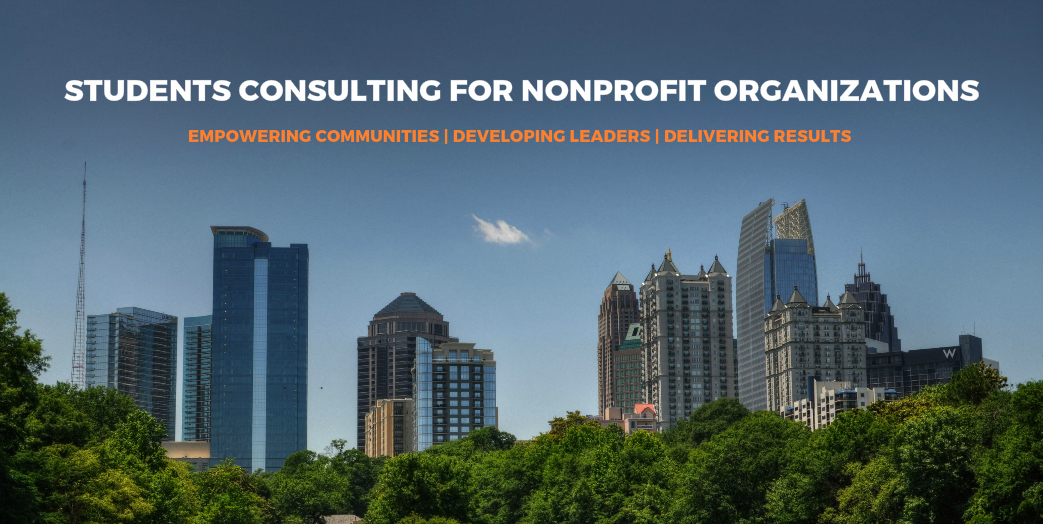
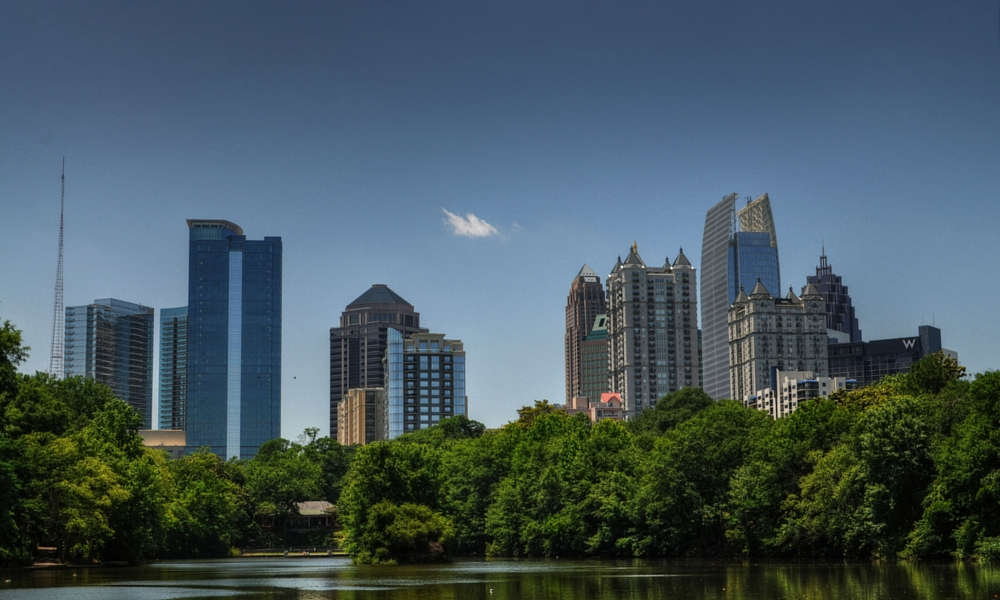
added other pages

diff --git a/contact.html b/contact.html
@@ -26,7 +26,7 @@
 
                 <div class = "collapse navbar-collapse navHeaderCollapse">
                     <ul class = "nav navbar-nav navbar-right">
-                        <li class = active><a href = "#">Home</a></li>
+                        <li><a href = "index.html">Home</a></li>
                         <li class = "dropdown">
                             <a href = "#" class = "dropdown-toggle" data-toggle="dropdown">About SCNO <b class = "caret"></b></a>
                             <ul class = "dropdown-menu">
@@ -36,7 +36,7 @@
                             </ul>
                         </li>
                         <li><a href = "apply.html">Apply</a></li>
-                        <li><a href = "contact.html">Contact Us</a></li>
+                        <li class = "active"><a href = "contact.html">Contact Us</a></li>
                         <li><a href = "https://www.facebook.com/GTSCNO/" target="_blank">
                             <img src = "pics/fblogo.jpg" width="35" height="35">
                         </a></li>
@@ -45,44 +45,11 @@
             </div>
         </div>
 
-        <div class="header">
-            <img src = "pics/header.jpg" align="middle">
-        </div>
-
-        <div class = "jumbotron" style = "background-image: url(pics/jumbo.jpg); background-size: 100% 100%;">
-        </div>
-
-        <div class = "container">
-            <div class = "row">
-                <div class = "col-md-4">
-                    <h3 class = "text-center text-uppercase text-primary">Nonprofits</h3>
-                    <img src = "pics/nonprofit.jpg" class = "center-block">
-                    <p class = "text-center">We consult for nonprofit organizations in Atlanta, solving different kinds of problems.</p>
-                    <a href = "#" class = "btn btn-default center-block">Get Consulted</a>
-                </div>
-                <div class = "col-md-4">
-                    <h3 class = "text-center text-uppercase text-primary">Students</h3>
-                    <img src = "pics/student.jpg" class = "center-block">
-                    <p class = "text-center">We have the most passionate students from a variety of majors to create innovative solutions.</p>
-                    <a href = "#" class = "btn btn-default center-block">Apply Now</a>
-                </div>
-                <div class = "col-md-4">
-                    <h3 class = "text-center text-uppercase text-primary">Results</h3>
-                    <img src = "pics/results.jpg" class = "center-block">
-                    <p class = "text-center">We give our clients a presentation and a detailed report of our recommendations.</p>
-                    <a href = "#" class = "btn btn-default center-block">Our Clients</a>
-                </div>
-            </div>
-            <br><br><br>
-        </div>
-
-        <div class = "navbar navbar-inverse">
-            <div class = "container">
-                <ul class = "nav navbar-nav navbar-left">
-                    <li><a href="#">Made by SCNO GT</a></li>
-                </ul>
-            </div>
-        </div>
+        <form action="https://formspree.io/scnogt@gmail.com" method="POST">
+            <input type="text" name="name">
+            <input type="email" name="_replyto">
+            <input type="submit" value="Send">
+        </form>
 
         <script src = "http://ajax.googleapis.com/ajax/libs/jquery/1.10.2/jquery.min.js">
         </script>

diff --git a/apply.html b/apply.html
@@ -26,7 +26,7 @@
 
                 <div class = "collapse navbar-collapse navHeaderCollapse">
                     <ul class = "nav navbar-nav navbar-right">
-                        <li class = active><a href = "#">Home</a></li>
+                        <li><a href = "index.html">Home</a></li>
                         <li class = "dropdown">
                             <a href = "#" class = "dropdown-toggle" data-toggle="dropdown">About SCNO <b class = "caret"></b></a>
                             <ul class = "dropdown-menu">
@@ -35,7 +35,7 @@
                                 <li><a href = "#">Our Clients</a></li>
                             </ul>
                         </li>
-                        <li><a href = "apply.html">Apply</a></li>
+                        <li class="active"><a href = "apply.html">Apply</a></li>
                         <li><a href = "contact.html">Contact Us</a></li>
                         <li><a href = "https://www.facebook.com/GTSCNO/" target="_blank">
                             <img src = "pics/fblogo.jpg" width="35" height="35">
@@ -45,35 +45,11 @@
             </div>
         </div>
 
-        <div class="header">
-            <img src = "pics/header.jpg" align="middle">
-        </div>
-
-        <div class = "jumbotron" style = "background-image: url(pics/jumbo.jpg); background-size: 100% 100%;">
-        </div>
-
-        <div class = "container">
-            <div class = "row">
-                <div class = "col-md-4">
-                    <h3 class = "text-center text-uppercase text-primary">Nonprofits</h3>
-                    <img src = "pics/nonprofit.jpg" class = "center-block">
-                    <p class = "text-center">We consult for nonprofit organizations in Atlanta, solving different kinds of problems.</p>
-                    <a href = "#" class = "btn btn-default center-block">Get Consulted</a>
-                </div>
-                <div class = "col-md-4">
-                    <h3 class = "text-center text-uppercase text-primary">Students</h3>
-                    <img src = "pics/student.jpg" class = "center-block">
-                    <p class = "text-center">We have the most passionate students from a variety of majors to create innovative solutions.</p>
-                    <a href = "#" class = "btn btn-default center-block">Apply Now</a>
-                </div>
-                <div class = "col-md-4">
-                    <h3 class = "text-center text-uppercase text-primary">Results</h3>
-                    <img src = "pics/results.jpg" class = "center-block">
-                    <p class = "text-center">We give our clients a presentation and a detailed report of our recommendations.</p>
-                    <a href = "#" class = "btn btn-default center-block">Our Clients</a>
-                </div>
-            </div>
-            <br><br><br>
+        <h1>How To Apply</h1><br>
+        <div class ="apply">
+            <img src ="pics/step1.jpg" style="margin-bottom: 10px">
+            <img src = "pics/step2.jpg" style="margin-bottom: 10px">
+            <img src = "pics/step3.jpg">
         </div>
 
         <div class = "navbar navbar-inverse">

diff --git a/css/bootstrap.css b/css/bootstrap.css
@@ -61,7 +61,7 @@ dfn {
 }
 h1 {
   margin: .67em 0;
-  font-size: 2em;
+  font-size: 4em;
 }
 mark {
   color: #000;
@@ -4968,15 +4968,13 @@ a.badge:focus {
   margin-left: 3px;
 }
 .jumbotron {
-  padding-top: 30px;
   padding-bottom: 30px;
   margin-bottom: 30px;
-  padding-left: 30px;
-  padding-right: 30px;
-  margin-left: 90px;
-  margin-right: 90px;
-  margin-top: 30px;
-  height: 60vh;
+  /*padding-left: 30px;
+  padding-right: 30px;*/
+  /*margin-left: 85px;
+  margin-right: 85px;*/
+  height: 95vh;
   background-repeat: no-repeat;
   /*color: inherit;*/
   background-color: #000;

diff --git a/Styles.css b/Styles.css
@@ -15,5 +15,21 @@ h6,
 .h4,
 .h5,
 .h6 {
-    font-family: Verdana, Geneva, sans-serif
+    font-family: Verdana, Geneva, sans-serif;
+    color: #001744;
+    text-align: center;
+}
+
+.header {
+    text-align: center;
+    margin-top: 15px;
+}
+
+.apply{
+    margin-bottom: 15px;
+}
+
+h1, .h1{
+    font-weight: bold;
+    text-decoration: underline;
 }

diff --git a/sendForm.php b/sendForm.php
@@ -1,0 +1,144 @@
+<?php
+    if (isset($_POST["submit"])) {
+        $name = $_POST['name'];
+        $email = $_POST['email'];
+        $message = $_POST['message'];
+        $human = intval($_POST['human']);
+        $from = 'Contact Form';
+        $to = 'scno@gmail.com';
+        $subject = 'Message from Contact Form';
+
+        $body = "From: $name\n E-Mail: $email\n Message:\n $message";
+
+        // Check if name has been entered
+        if (!$_POST['name']) {
+            $errName = 'Please enter your name';
+        }
+
+        // Check if email has been entered and is valid
+        if (!$_POST['email'] || !filter_var($_POST['email'], FILTER_VALIDATE_EMAIL)) {
+            $errEmail = 'Please enter a valid email address';
+        }
+
+        //Check if message has been entered
+        if (!$_POST['message']) {
+            $errMessage = 'Please enter your message';
+        }
+        //Check if simple anti-bot test is correct
+        if ($human !== 5) {
+            $errHuman = 'Your anti-spam is incorrect';
+        }
+
+// If there are no errors, send the email
+if (!$errName && !$errEmail && !$errMessage && !$errHuman) {
+    if (mail ($to, $subject, $body, $from)) {
+        $result='<div class="alert alert-success">Thank You! I will be in touch</div>';
+    } else {
+        $result='<div class="alert alert-danger">Sorry there was an error sending your message. Please try again later</div>';
+    }
+}
+    }
+?>
+
+<!DOCTYPE html>
+<html>
+
+    <head>
+        <title>SCNO</title>
+        <meta name="viewport" content="width=device-width, initial-scale=1.0">
+        <link href = "css/bootstrap.min.css" rel = "stylesheet">
+        <link href = "css/bootstrap.css" rel = "stylesheet">
+        <link href = "Styles.css" rel = "stylesheet">
+        <link href='https://fonts.googleapis.com/css?family=Montserrat' rel='stylesheet' type='text/css'>
+    </head>
+
+    <body>
+        <!-- <link href = "css/bootstrap.min.css" rel = "stylesheet">
+        <link href = "css/styles.css" rel = "stylesheet"> -->
+
+        <div class = "navbar navbar-default navbar-static-top">
+            <div class = "container">
+                <a href="#" class="pull-left"><img src="pics/navbarlogo3.png" width="250" height="70"></a>
+
+                <button class = "navbar-toggle" data-toggle="collapse" data-target=".navHeaderCollapse">
+                    <span class = "icon-bar"></span>
+                    <span class = "icon-bar"></span>
+                    <span class = "icon-bar"></span>
+                </button>
+
+                <div class = "collapse navbar-collapse navHeaderCollapse">
+                    <ul class = "nav navbar-nav navbar-right">
+                        <li><a href = "index.html">Home</a></li>
+                        <li class = "dropdown">
+                            <a href = "#" class = "dropdown-toggle" data-toggle="dropdown">About SCNO <b class = "caret"></b></a>
+                            <ul class = "dropdown-menu">
+                                <li><a href = "#">What We Do</a></li>
+                                <li><a href = "#">Executive Board</a></li>
+                                <li><a href = "#">Our Clients</a></li>
+                            </ul>
+                        </li>
+                        <li><a href = "apply.html">Apply</a></li>
+                        <li class = "active"><a href = "contact.html">Contact Us</a></li>
+                        <li><a href = "https://www.facebook.com/GTSCNO/" target="_blank">
+                            <img src = "pics/fblogo.jpg" width="35" height="35">
+                        </a></li>
+                    </ul>
+                </div>
+            </div>
+        </div>
+
+        <form class="form-horizontal" role="form" method="post" action="index.php">
+            <div class="form-group">
+                <label for="name" class="col-sm-2 control-label">Name</label>
+                <div class="col-sm-10">
+                    <input type="text" class="form-control" id="name" name="name" placeholder="First & Last Name" value="<?php echo htmlspecialchars($_POST['name']); ?>">
+                    <?php echo "<p class='text-danger'>$errName</p>";?>
+                </div>
+            </div>
+            <div class="form-group">
+                <label for="email" class="col-sm-2 control-label">Email</label>
+                <div class="col-sm-10">
+                    <input type="email" class="form-control" id="email" name="email" placeholder="example@domain.com" value="<?php echo htmlspecialchars($_POST['email']); ?>">
+                    <?php echo "<p class='text-danger'>$errEmail</p>";?>
+                </div>
+            </div>
+            <div class="form-group">
+                <label for="message" class="col-sm-2 control-label">Message</label>
+                <div class="col-sm-10">
+                    <textarea class="form-control" rows="4" name="message"><?php echo htmlspecialchars($_POST['message']);?></textarea>
+                    <?php echo "<p class='text-danger'>$errMessage</p>";?>
+                </div>
+            </div>
+            <div class="form-group">
+                <label for="human" class="col-sm-2 control-label">2 + 3 = ?</label>
+                <div class="col-sm-10">
+                    <input type="text" class="form-control" id="human" name="human" placeholder="Your Answer">
+                    <?php echo "<p class='text-danger'>$errHuman</p>";?>
+                </div>
+            </div>
+            <div class="form-group">
+                <div class="col-sm-10 col-sm-offset-2">
+                    <input id="submit" name="submit" type="submit" value="Send" class="btn btn-primary">
+                </div>
+            </div>
+            <div class="form-group">
+                <div class="col-sm-10 col-sm-offset-2">
+                    <?php echo $result; ?>
+                </div>
+            </div>
+        </form>
+        <div class = "navbar navbar-inverse">
+            <div class = "container">
+                <ul class = "nav navbar-nav navbar-left">
+                    <li><a href="#">Made by SCNO GT</a></li>
+                </ul>
+            </div>
+        </div>
+
+        <script src = "http://ajax.googleapis.com/ajax/libs/jquery/1.10.2/jquery.min.js">
+        </script>
+        <script src = "js/bootstrap.js">
+        </script>
+    </body>
+
+</html>
